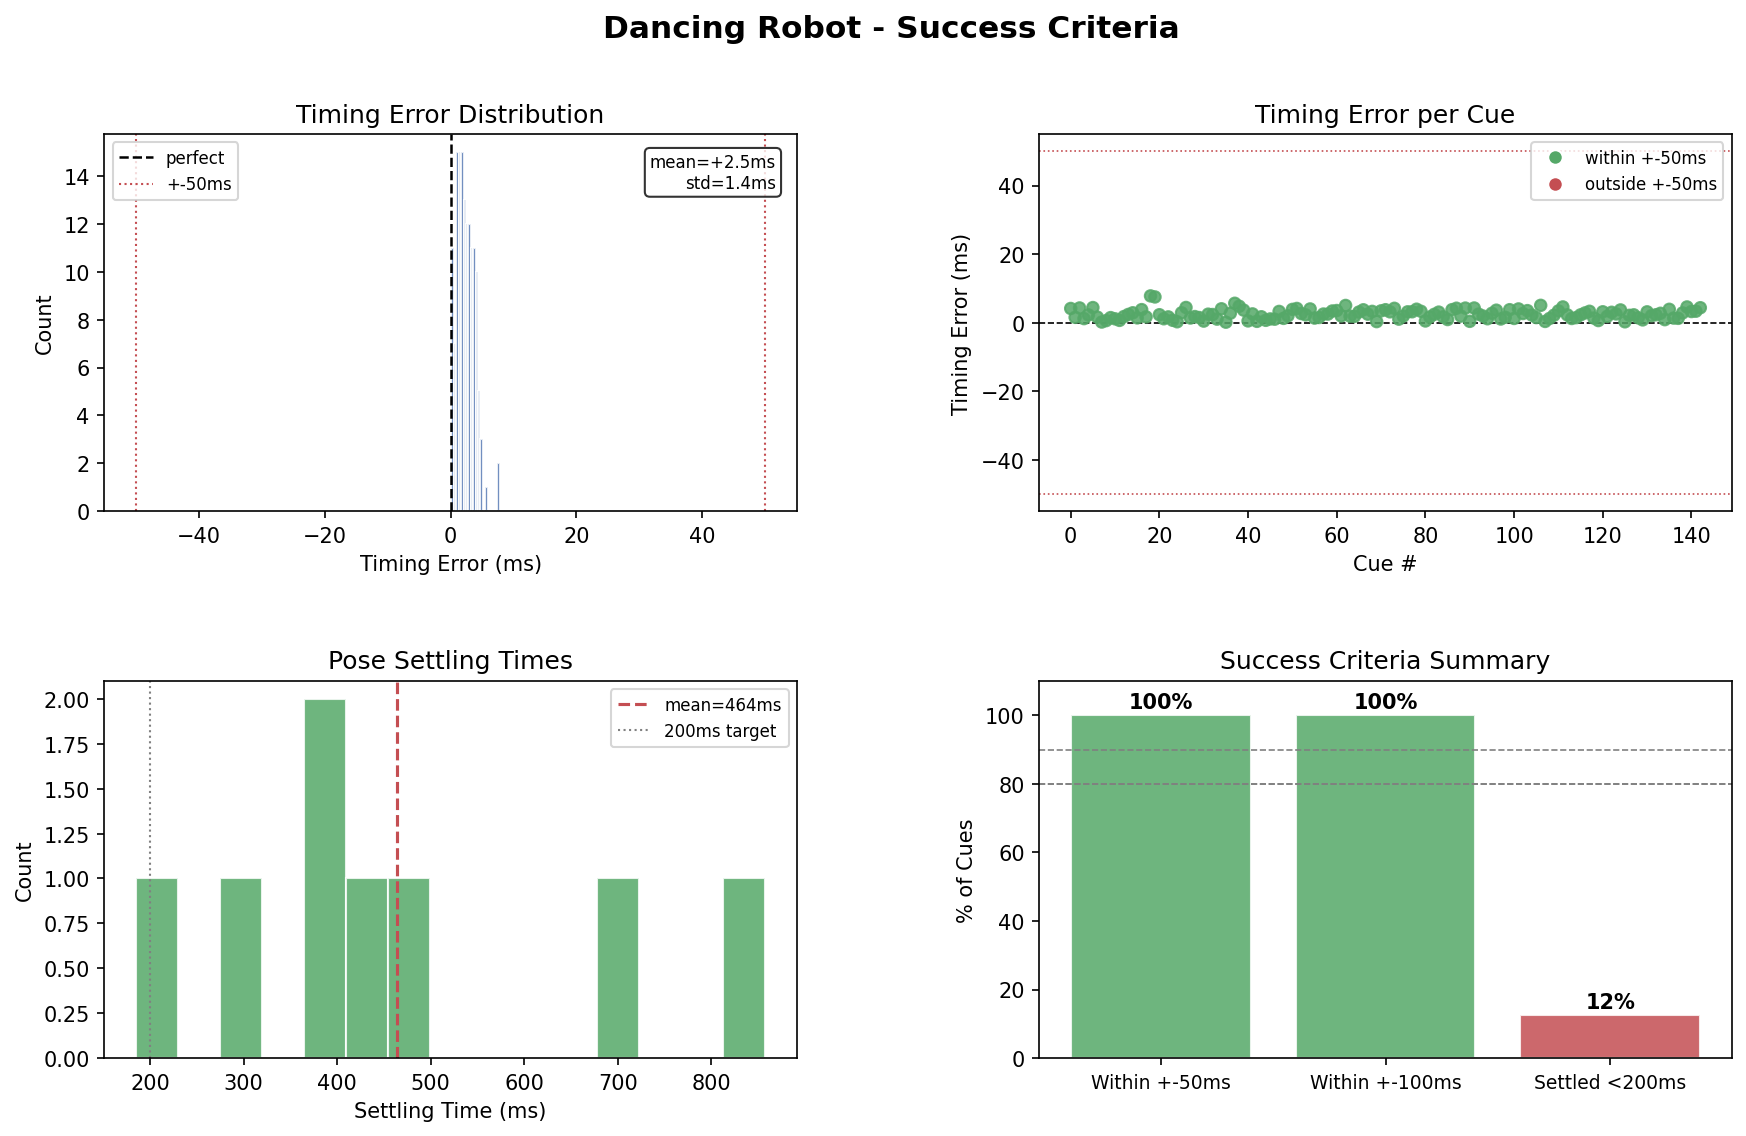
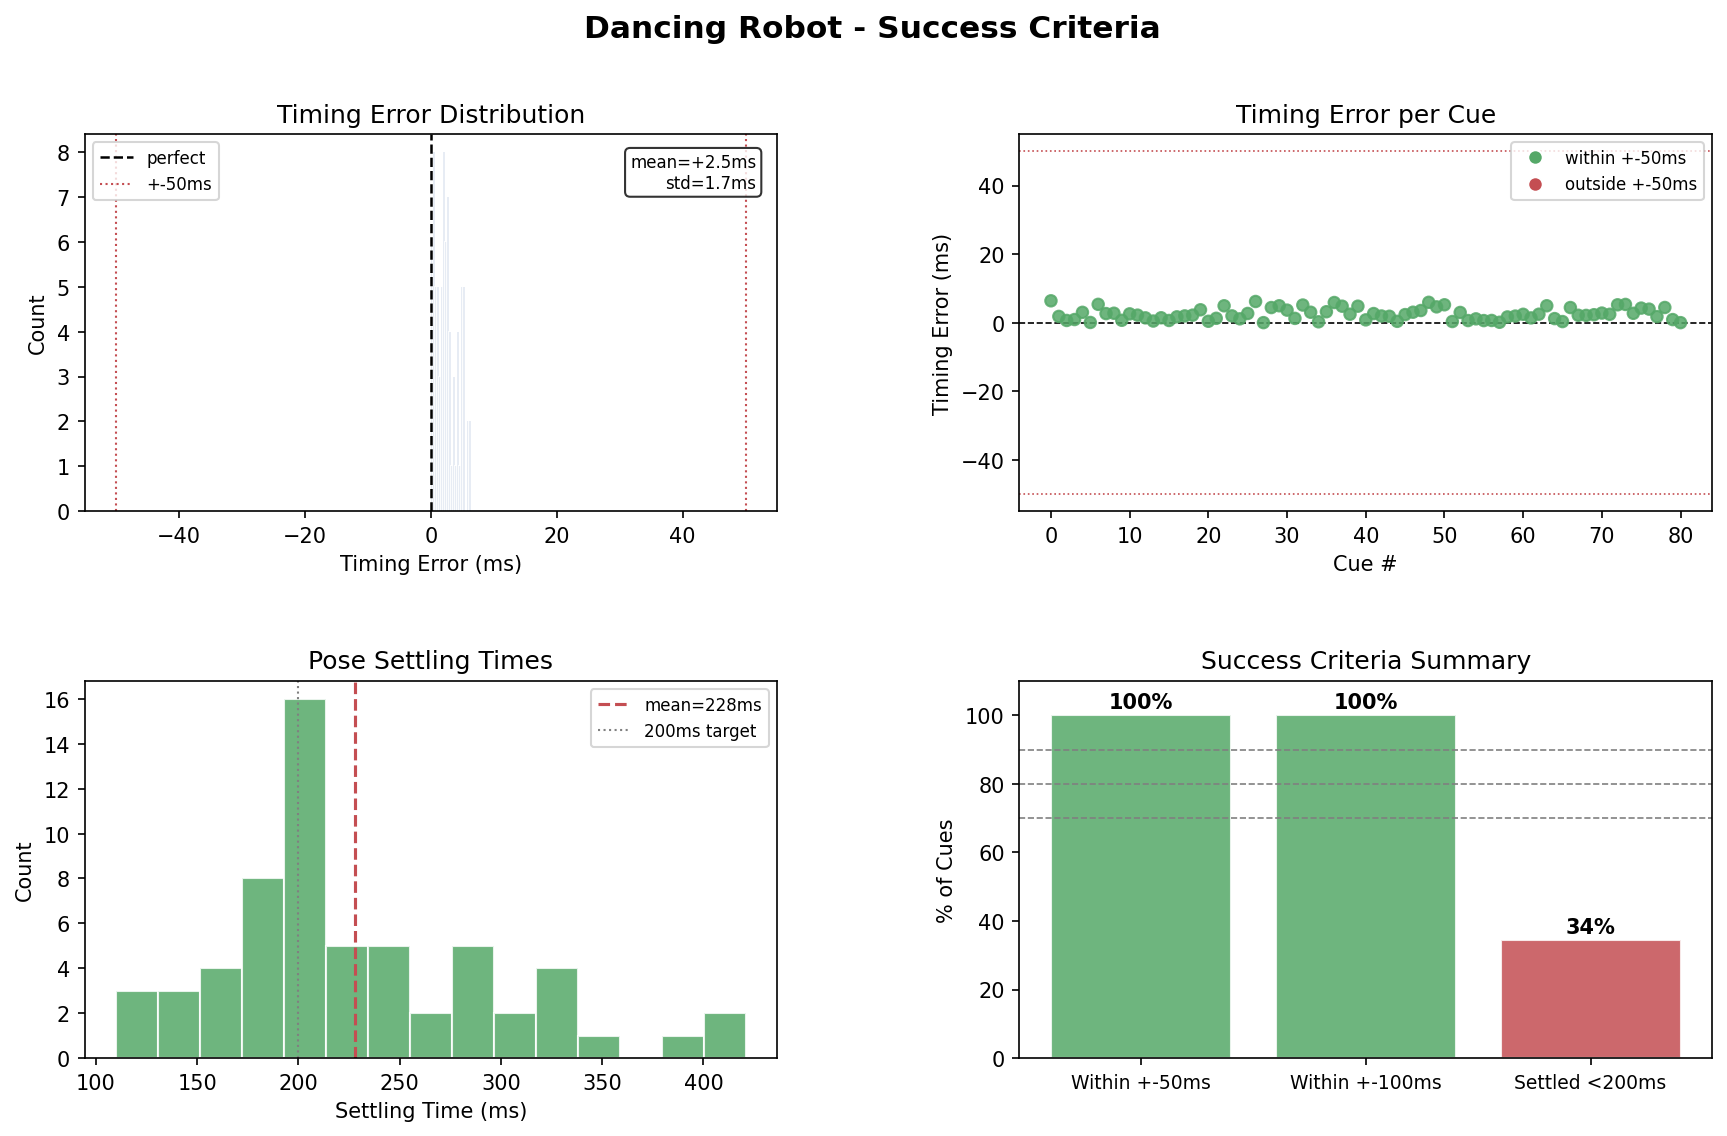
Cleaned up beat numbers

diff --git a/success_criteria.py b/success_criteria.py
@@ -7,70 +7,60 @@ Success Criteria Analysis
 """
 
 import numpy as np
-
-
-def _flatten_obs(obs, n):
-    """Safely flatten obs whether it's a dict, list, or array, then take first n elements."""
-    if isinstance(obs, dict):
-        arr = np.concatenate([np.array(v).flatten() for v in obs.values()])
-    else:
-        arr = np.array(obs).flatten()
-    return arr[:n]
-
-
+ 
+ 
 class SuccessTracker:
-    def __init__(self, n_joints=12, settling_threshold_rad=0.05):
+    def __init__(self, n_joints=14, settling_threshold_rad=0.175):
         self.n_joints = n_joints
         self.settling_threshold = settling_threshold_rad
-
+ 
         # musical alignment
         self.timing_errors_ms = []
-
+ 
         # motion quality
         self.settling_times_ms = []
         self._settling_start = None
         self._current_target = None
         self._settled = False
-
+ 
     def log_cue(self, target_time, actual_time, target_action=None):
         """Call when a new cue fires."""
         self.timing_errors_ms.append((actual_time - target_time) * 1000)
-
+ 
         if target_action is not None:
             action_arr = np.array(target_action).flatten()
             self._current_target = action_arr[:self.n_joints]
             self._settling_start = actual_time
             self._settled = False
-
+ 
     def log_step(self, obs, current_action, current_time=None):
         """Call every env step."""
         if self._current_target is None or self._settled:
             return
-
-        positions = _flatten_obs(obs, self.n_joints)
+ 
+        positions = np.array(obs["robot0_joint_pos"])
         error = np.max(np.abs(positions - self._current_target))
-
+ 
         if error < self.settling_threshold:
             if current_time is not None and self._settling_start is not None:
                 self.settling_times_ms.append((current_time - self._settling_start) * 1000)
             self._settled = True
-
+ 
     def report(self, save_path="success_criteria.png"):
         """Print success criteria and save plots to file."""
-
-        # use non-interactive backend — safe to call from any thread / finally block
+ 
         import matplotlib
         matplotlib.use("agg")
         import matplotlib.pyplot as plt
         import matplotlib.gridspec as gridspec
         from matplotlib.lines import Line2D
-
+ 
         has_timing   = bool(self.timing_errors_ms)
         has_settling = bool(self.settling_times_ms)
-
+ 
         # ── Console output ─────────────────────────────────────────────
         print("\n========== SUCCESS CRITERIA ==========")
-
+ 
         print("\n[ Musical Alignment ]")
         if has_timing:
             errors   = self.timing_errors_ms
@@ -85,30 +75,32 @@ class SuccessTracker:
             print(f"  Within +-100ms:     {pct_100:.1f}%")
         else:
             print("  No cue data recorded.")
-
+ 
         print("\n[ Motion Quality ]")
         if has_settling:
             mean_settle = np.mean(self.settling_times_ms)
+            pct_fast    = sum(s <= 200 for s in self.settling_times_ms) / len(self.settling_times_ms) * 100
             print(f"  Mean settling time: {mean_settle:.0f} ms  {'pass' if mean_settle < 200 else 'FAIL'}  (target: <200ms)")
             print(f"  Poses that settled: {len(self.settling_times_ms)}")
+            print(f"  Settled <200ms:     {pct_fast:.1f}%  {'pass' if pct_fast >= 70 else 'FAIL'}  (target: 70%)")
         else:
             print("  No settling data (pass target_action to log_cue and current_time to log_step).")
-
+ 
         print("\n======================================\n")
-
+ 
         if not has_timing and not has_settling:
             print("No data to plot.")
             return
-
+ 
         # ── Colours ────────────────────────────────────────────────────
         BLUE  = "#4C72B0"
         GREEN = "#55A868"
         RED   = "#C44E52"
-
+ 
         fig = plt.figure(figsize=(14, 8))
         fig.suptitle("Dancing Robot - Success Criteria", fontsize=15, fontweight="bold")
         gs = gridspec.GridSpec(2, 2, figure=fig, hspace=0.45, wspace=0.35)
-
+ 
         # ── 1. Timing error histogram ──────────────────────────────────
         ax1 = fig.add_subplot(gs[0, 0])
         if has_timing:
@@ -129,7 +121,7 @@ class SuccessTracker:
             ax1.text(0.5, 0.5, "No timing data", ha="center", va="center",
                      transform=ax1.transAxes, color="grey")
             ax1.set_title("Timing Error Distribution")
-
+ 
         # ── 2. Timing error per cue (scatter) ─────────────────────────
         ax2 = fig.add_subplot(gs[0, 1])
         if has_timing:
@@ -151,7 +143,7 @@ class SuccessTracker:
             ax2.text(0.5, 0.5, "No timing data", ha="center", va="center",
                      transform=ax2.transAxes, color="grey")
             ax2.set_title("Timing Error per Cue")
-
+ 
         # ── 3. Settling time histogram ─────────────────────────────────
         ax3 = fig.add_subplot(gs[1, 0])
         if has_settling:
@@ -168,11 +160,11 @@ class SuccessTracker:
             ax3.text(0.5, 0.5, "No settling data", ha="center", va="center",
                      transform=ax3.transAxes, color="grey")
             ax3.set_title("Pose Settling Times")
-
+ 
         # ── 4. Summary bar chart ───────────────────────────────────────
         ax4 = fig.add_subplot(gs[1, 1])
         labels, values, targets, bar_colors = [], [], [], []
-
+ 
         if has_timing:
             errors  = self.timing_errors_ms
             pct_50  = sum(abs(e) <= 50  for e in errors) / len(errors) * 100
@@ -181,14 +173,14 @@ class SuccessTracker:
             values     += [pct_50, pct_100]
             targets    += [80, 90]
             bar_colors += [GREEN if pct_50 >= 80 else RED, GREEN if pct_100 >= 90 else RED]
-
+ 
         if has_settling:
             pct_fast = sum(s <= 200 for s in self.settling_times_ms) / len(self.settling_times_ms) * 100
             labels     += ["Settled <200ms"]
             values     += [pct_fast]
-            targets    += [80]
-            bar_colors += [GREEN if pct_fast >= 80 else RED]
-
+            targets    += [70]
+            bar_colors += [GREEN if pct_fast >= 70 else RED]
+ 
         bars = ax4.bar(labels, values, color=bar_colors, edgecolor="white", alpha=0.85)
         for bar, val, tgt in zip(bars, values, targets):
             ax4.text(bar.get_x() + bar.get_width() / 2, bar.get_height() + 1,
@@ -198,7 +190,8 @@ class SuccessTracker:
         ax4.set_ylabel("% of Cues")
         ax4.set_title("Success Criteria Summary")
         ax4.tick_params(axis="x", labelsize=9)
-
+ 
         plt.savefig(save_path, dpi=150, bbox_inches="tight", facecolor="white")
         plt.close()
         print(f"Plot saved to {save_path}")
+ 

diff --git a/pose_library.py b/pose_library.py
@@ -464,62 +464,62 @@ SEQUENCE = [
     "move_9",                   # beat 89
     "move_9_out",               # beat 90
     "move_9",                   # beat 91
-    "L1",
-    "L2",
-    "point_left",
-    "point_right",
-    "arms_wide",                # beat 92
-    "wave1",                    # beat 93
-    "wave2",                    # beat 94
-    "wave3",                    # beat 95
-    "arms_wide",                    # beat 96
-    "wave1",
-    "wave2",
-    "wave3",
-    "arms_wide",
-    "wave1",
-    "wave2",
-    "wave3",
-    "arms_wide",
-    "elbow_push_1",
-    "elbow_push_2",
-    "elbow_push_1",
-    "elbow_push_2",
-    "elbow_push_1",
-    "elbow_push_2",
-    "elbow_push_1",
-    "elbow_push_2",
-    "elbow_push_1",
-    "elbow_push_2",
-    "elbow_push_1",
-    "elbow_push_2",
-    "elbow_push_1",
-    "elbow_push_2",
-    "elbow_push_1",
-    "elbow_push_2",
-    "arms_wide",
-    "point",
-    "point",
-    "point",
-    "S1",
-    "S2",
-    "S1",
-    "S2",
-    "S1",
-    "S2",
-    "S1",
-    "S2",
-    "clap",
-    "point_left",
-    "point_right",
-    "point_left",
-    "point_right",
-    "point_left",
-    "point_right",
-    "point_left",
-    "point_right",
-    "point_left",
-    "point_right",
+    "L1",                       # beat 92
+    "L2",                       # beat 93
+    "point_left",               # beat 94
+    "point_right",              # beat 95
+    "arms_wide",                # beat 96
+    "wave1",                    # beat 97
+    "wave2",                    # beat 98
+    "wave3",                    # beat 99
+    "arms_wide",                # beat 100
+    "wave1",                    # beat 101
+    "wave2",                    # beat 102
+    "wave3",                    # beat 103
+    "arms_wide",                # beat 104
+    "wave1",                    # beat 105
+    "wave2",                    # beat 106
+    "wave3",                    # beat 107
+    "arms_wide",                # beat 108
+    "elbow_push_1",             # beat 109
+    "elbow_push_2",             # beat 110
+    "elbow_push_1",             # beat 111
+    "elbow_push_2",             # beat 112
+    "elbow_push_1",             # beat 113
+    "elbow_push_2",             # beat 114
+    "elbow_push_1",             # beat 115
+    "elbow_push_2",             # beat 116
+    "elbow_push_1",             # beat 117
+    "elbow_push_2",             # beat 118
+    "elbow_push_1",             # beat 119
+    "elbow_push_2",             # beat 120
+    "elbow_push_1",             # beat 121
+    "elbow_push_2",             # beat 122
+    "elbow_push_1",             # beat 123
+    "elbow_push_2",             # beat 124
+    "arms_wide",                # beat 125
+    "point",                    # beat 126
+    "point",                    # beat 127
+    "point",                    # beat 128  
+    "S1",                       # beat 129
+    "S2",                       # beat 130
+    "S1",                       # beat 131
+    "S2",                       # beat 132
+    "S1",                       # beat 133
+    "S2",                       # beat 134
+    "S1",                       # beat 135
+    "S2",                       # beat 136
+    "clap",                     # beat 137
+    "point_left",               # beat 138
+    "point_right",              # beat 139
+    "point_left",               # beat 140
+    "point_right",              # beat 141
+    "point_left",               # beat 142
+    "point_right",              # beat 143
+    "point_left",               # beat 144
+    "point_right",              # beat 145
+    "point_left",               # beat 146
+    "point_right",              # beat 147
 ]
 
 HALFBEAT_SEQUENCE = [

diff --git a/testing.py b/testing.py
@@ -25,7 +25,7 @@ def run():
 
     # move_5 for chorus
     current_action = np.array(POSES['move_11'])
-
+    print(obs["robot0_joint_pos"].shape)
     while True:
         obs, _, _, _ = env.step(current_action)
         env.render()
